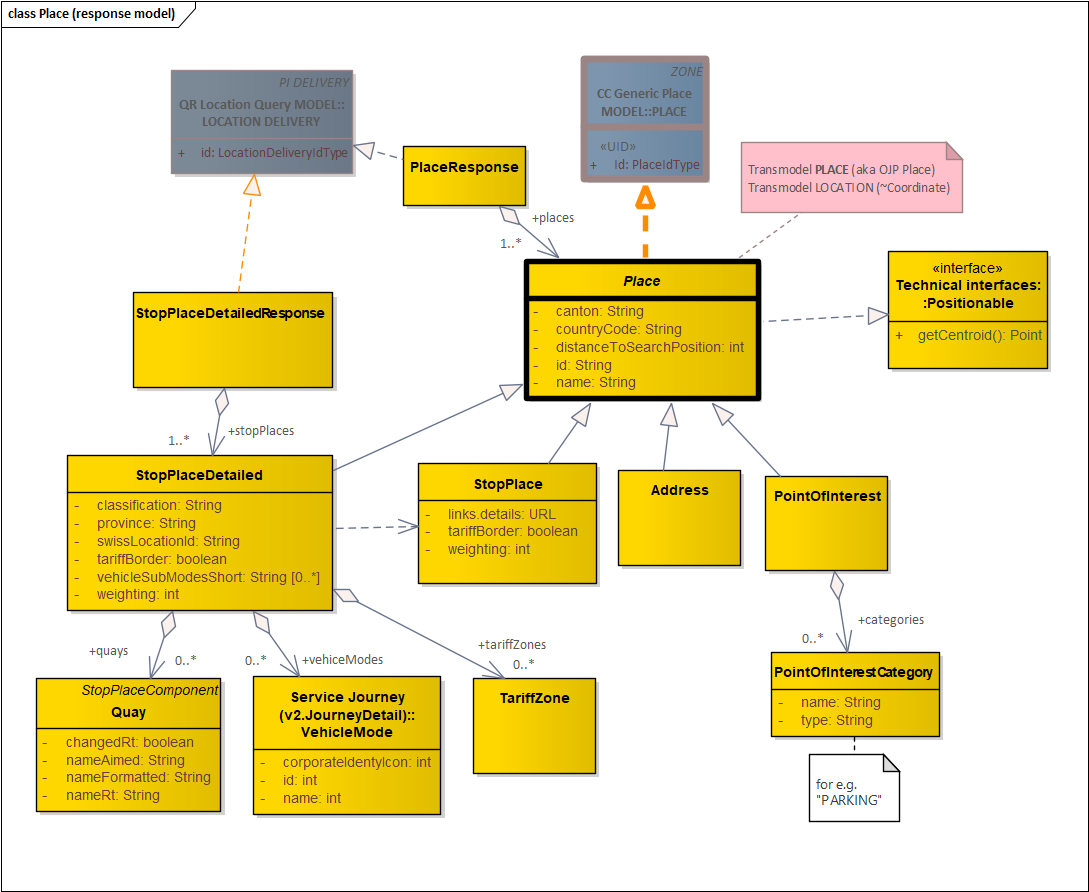
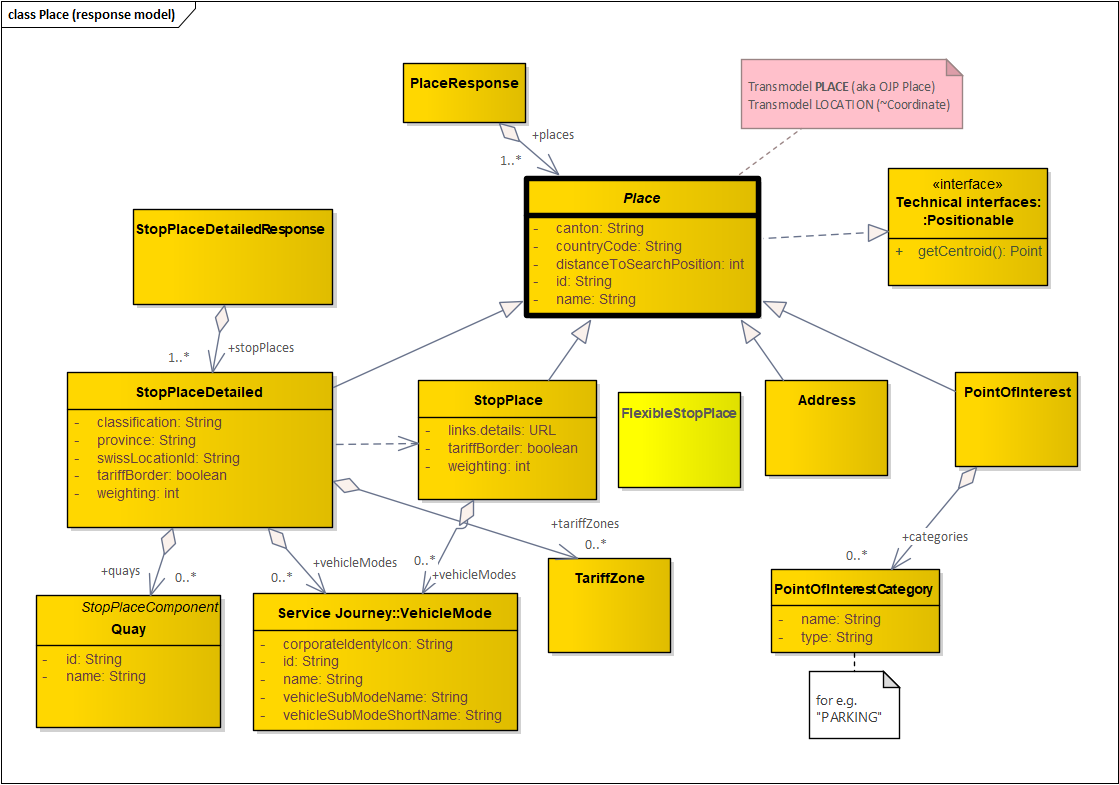
v3 model related to J-S v3.8.2

diff --git a/v3/Journey-Service_v3_MODEL.md b/v3/Journey-Service_v3_MODEL.md
@@ -1,20 +1,17 @@
 # Journey-Service (J-S) MODEL v3
 
-Online API: 
-## The J-S v3 Data-Model
-
-This is about the **implemented routing exchange model** provided by **J-S v3**.
+Response-models respectively about the **implemented routing exchange model** provided by **J-S v3**.
 
 The main reference is **Transmodel [TRM6-v56 (downloads and tutorials)](https://www.transmodel-cen.eu/downloads/)**, though Transmodel is rather a _conceptual specification_ and the J-S devOps Team did not find a satisfying reference-implementation yet. 
 
-However our team is convinced to take TRM as the main guideline for J-S v3, even with the risk, that we might have added some simplifications or our own flavor (based on Journey-Planner experience within SBB P division in the last 5 years with plenty of strategic consumers).
+However, our team is convinced to take TRM as the main guideline for J-S v3, even with the risk, that we might have added some simplifications or our own flavor (based on Journey-Planner experience within SBB P division in the last 5 years with plenty of strategic consumers).
 
-### REST-API (technical context)
+## REST-API (technical context)
 J-S v3 comes as a RESTful implementation according to:
  * [Zalando RESTful API Guidelines](https://opensource.zalando.com/restful-api-guidelines/)
  * [OpenApi 3 specification](https://swagger.io/specification/)
      
-### Journey-Planner context
+## Journey-Planner context
 API model see [J-S Model classes](https://developer.sbb.ch/apis/journey-service/documentation)
 * check for v3/* API classes (ignore deprecated v1 and v2 classes there)
 
@@ -22,28 +19,23 @@ Legend:
 
 ![image](resources/J-S_v3_Legend.png)
 
-#### Place MODEL
-Developer simplified view:
+### Place MODEL
 ![image](resources/J-S_v3_Place.png)
 
-Transmodel realization view:
-![image](resources/J-S_v3_Place_TRM.png)
+### Vehicle-Journeys MODEL
 
-#### ServiceJourney MODEL
+#### Schedules MODEL
+![image](resources/J-S_v3_ServiceCalendar.png)
 
-Developer simplified view:
+#### ServiceJourney
 ![image](resources/J-S_v3_ServiceJourney.png)
 
-Transmodel realization view:
-![image](resources/J-S_v3_ServiceJourney_TRM.png)
-
-#### Schedule MODEL
-Transmodel realization view:
-![image](resources/J-S_v3_ServiceCalendar_TRM.png)
+#### CompoundTrain
+Aka Train-Formation
+![image](resources/J-S_v3_CompoundTrain.png)
 
 #### Situation MODEL
-Transmodel realization view:
-![image](resources/J-S_v3_Situation_TRM.png)
+![image](resources/J-S_v3_Situation.png)
 
 ## Routing Standards in "Public Transport"
 
@@ -76,13 +68,13 @@ J-S v3 is not an OJP implementation, however OJP is also covered by Transmodel, 
     * [IFOPT](https://www.transmodel-cen.eu/ifopt-standard/): Identification of fixes Objects in Public Transport
 * [OpenJourneyPlanner VDV](https://dms.vdv.de/mitglieder/Seiten/ojp.aspx)
 
-### ODSM
-J-S v3 is not an ODSM [ODSM](https://app.swaggerhub.com/apis-docs/schlpbch/uic-90918_10_osdm/1.4.0) implementation, but may serve as an underlying routing facade for places and trips.
-* ODSM is an OJP orientied Ticketing specification among european members and UIC.
-* ODSM also has Journey-Planner API's with to focus to distribute international tickets (for e.g. among brokers). See chapter OJP related to J-S v3.
-* ODSM is a planned facade in front of NOVA (Switzerland).
+#### OSDM
+J-S v3 is not an [OSDM](https://app.swaggerhub.com/apis-docs/schlpbch/uic-90918_10_osdm/1.4.0) implementation, but may serve as an underlying routing facade for places and trips.
+* OSDM is an OJP orientied Ticketing specification among european members and UIC.
+* OSDM also has Journey-Planner API's with to focus to distribute international tickets (for e.g. among brokers). See chapter OJP related to J-S v3.
+* OSDM is a planned facade in front of NOVA (Switzerland).
 
-## Mapping between Journey-Planner implementations
+#### Mapping between Journey-Planner implementations
 Bridging/adapting between J-S v3 and
 * **[OJP Switzerland](https://opentransportdata.swiss/de/cookbook/open-journey-planner-ojp/)**: J-S is developing an experimental OJP-Adapter to call SKI OJP's XML implementation
-* **[ODSM](https://github.com/UnionInternationalCheminsdeFer/OSDM/wiki)**: is a newer specification based on OJP 1.0 extendind ticketing based on Journey-Planner systems, such as J-S v3 or OJP
+* **[OSDM](https://github.com/UnionInternationalCheminsdeFer/OSDM/wiki)**: is a newer specification based on OJP 1.0 extendind ticketing based on Journey-Planner systems, such as J-S v3 or OJP
